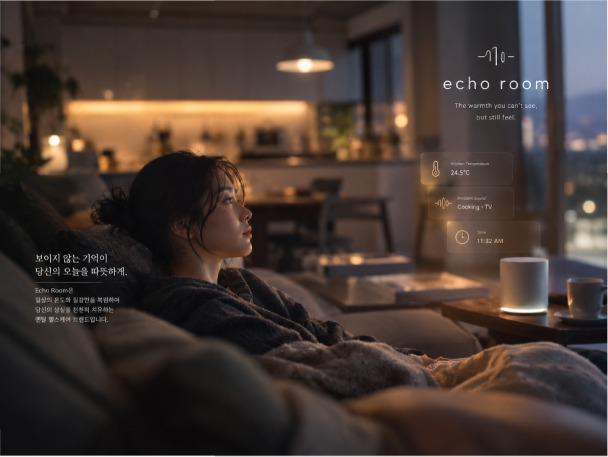
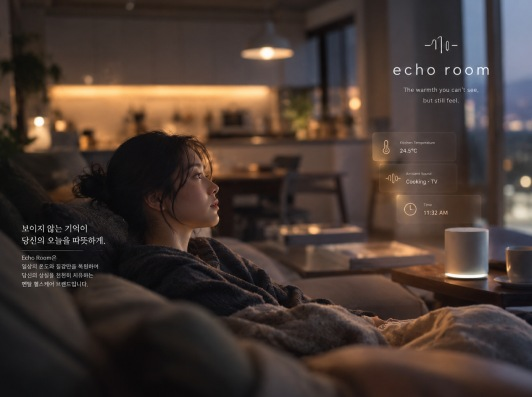
memory-archive: 고해상도 원본 이미지로 교체

diff --git a/memory-archive/index.html b/memory-archive/index.html
@@ -692,8 +692,7 @@ ul,ol{padding:0;list-style:none}
 <!-- 11 Echo Room -->
 <section class="sl" id="s11" data-nav="Echo Room" data-meta="INDEX 11 · BRAND 02">
   <div class="wrap bv">
-    <figure class="bimg fr"><img src="img/echo.jpg" alt="어두운 거실 소파에 앉아 있는 사람. 주방 온도와 주방 소리 정보가 떠 있다.">
-      <div class="amb"><span><small>KITCHEN TEMPERATURE</small>24.5℃</span><span><small>AMBIENT SOUND</small>Cooking · TV</span><span><small>TIME</small>11:32 AM</span></div></figure>
+    <figure class="bimg fr"><img src="img/echo.jpg" alt="어두운 거실 소파에 앉아 있는 사람. 주방 온도와 주방 소리 정보가 떠 있다."></figure>
     <div>
       <p class="eb fr">Brand 02<span>일상 아카이브형</span></p>
       <h2 class="bname fr">Echo Room<small>에코 룸 · AMBIENT THERAPY</small></h2>
